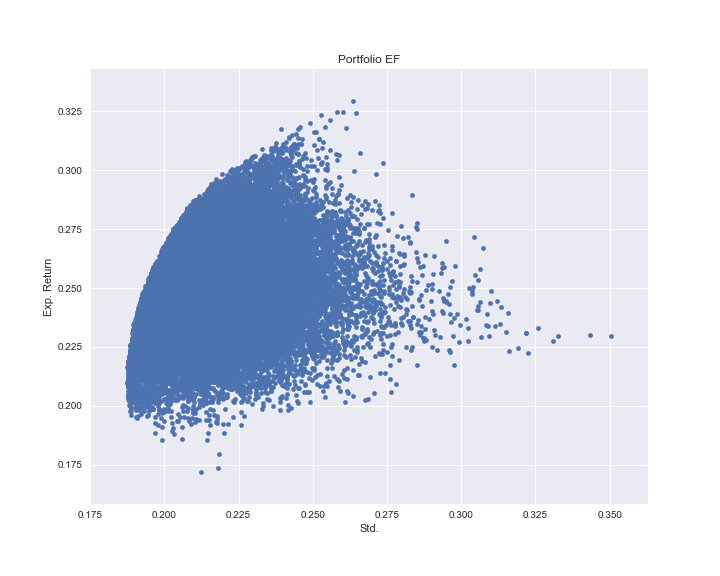
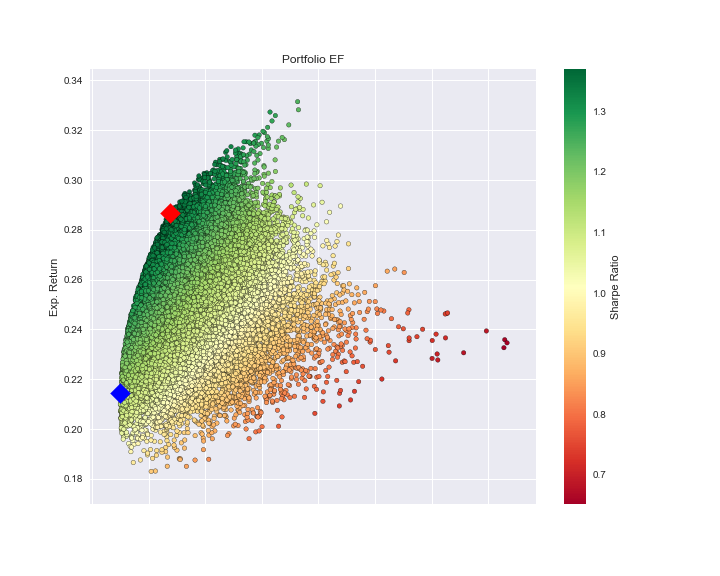
min_var portfolio and sharpe_max portfolio

diff --git a/getEfficientFrontier.py b/getEfficientFrontier.py
@@ -24,10 +24,13 @@ cov_annual = cov_daily * 250
 # empty lists to store returns, volatility and weights of imiginary portfolios
 port_returns = []
 port_volatility = []
+sharpe_ratio = []
 stock_weights = []
 
 # set the number of combinations for imaginary portfolios
 num_assets = len(selected)
+
+np.random.seed(1234)
 
 def getPort(num_portfolios=50000):
     for single_portfolio in range(num_portfolios):
@@ -36,12 +39,15 @@ def getPort(num_portfolios=50000):
         returns = np.dot(weights, returns_annual)
         # cal std. - square root of
         volatility = np.sqrt(np.dot(weights.T, np.dot(cov_annual, weights)))
+        sharpe = returns / volatility
+        sharpe_ratio.append(sharpe)
         port_returns.append(returns)
         port_volatility.append(volatility)
         stock_weights.append(weights)
 
     portfolio = {'Returns': port_returns,
-                 'Volatility': port_volatility}
+                 'Volatility': port_volatility,
+                 'Sharpe Ratio': sharpe_ratio}
 
     return portfolio
 
@@ -52,15 +58,24 @@ def getDF(port):
 
     df = pd.DataFrame(port)
 
-    column_order = ['Returns', 'Volatility'] + [stock+' Weight' for stock in selected]
+    column_order = ['Returns', 'Volatility', 'Sharpe Ratio'] + [stock+' Weight' for stock in selected]
     df = df[column_order]
 
     return df
 
 def plotEF(df):
     # plot the efficient frontier with a scatter plot
-    plt.style.use('seaborn')
-    df.plot.scatter(x='Volatility', y='Returns', figsize=(10,8), grid=True)
+    min_volatility = df['Volatility'].min()
+    max_sharpe = df['Sharpe Ratio'].max()
+
+    sharpe_portfolio = df.loc[df['Sharpe Ratio'] == max_sharpe]
+    min_variance_port = df.loc[df['Volatility'] == min_volatility]
+
+    plt.style.use('seaborn-dark')
+    df.plot.scatter(x='Volatility', y='Returns', c='Sharpe Ratio',
+                    cmap='RdYlGn', edgecolors='k', figsize=(10,8), grid=True)
+    plt.scatter(x=sharpe_portfolio['Volatility'], y=sharpe_portfolio['Returns'], c='red', marker='D', s=200)
+    plt.scatter(x=min_variance_port['Volatility'], y=min_variance_port['Returns'], c='blue', marker='D', s=200 )
     plt.xlabel('Std.')
     plt.ylabel('Exp. Return')
     plt.title('Portfolio EF')
@@ -68,4 +83,5 @@ def plotEF(df):
 
 if __name__ == '__main__':
     port = getPort()
-    plotEF(getDF(port))
+    df = getDF(port)
+    plotEF(df)
